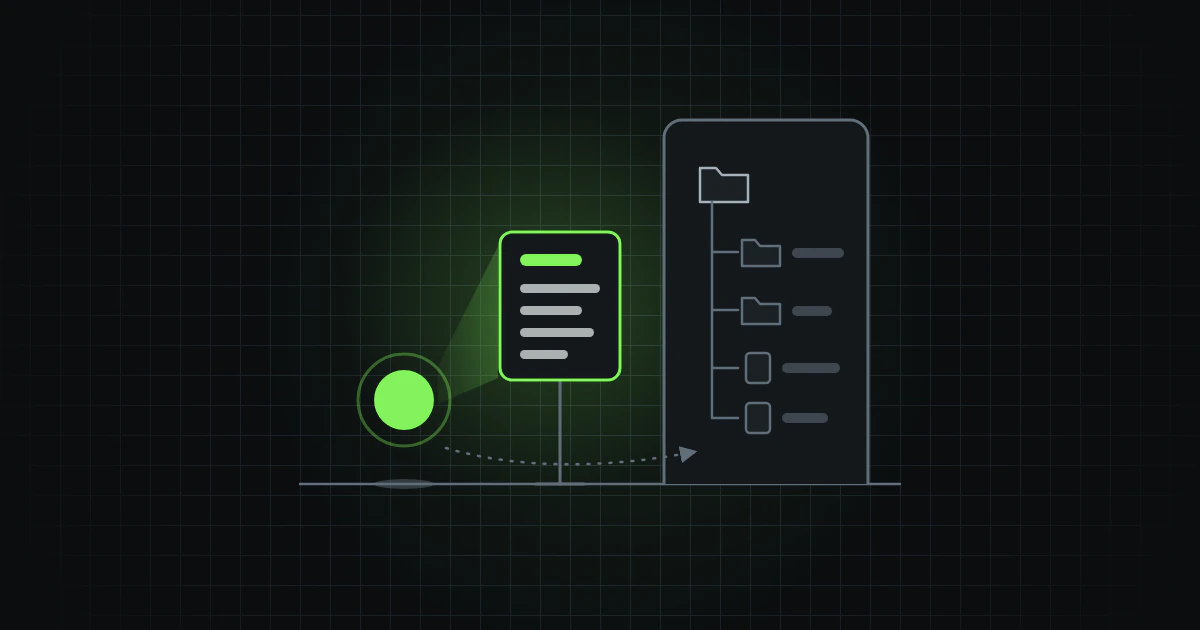
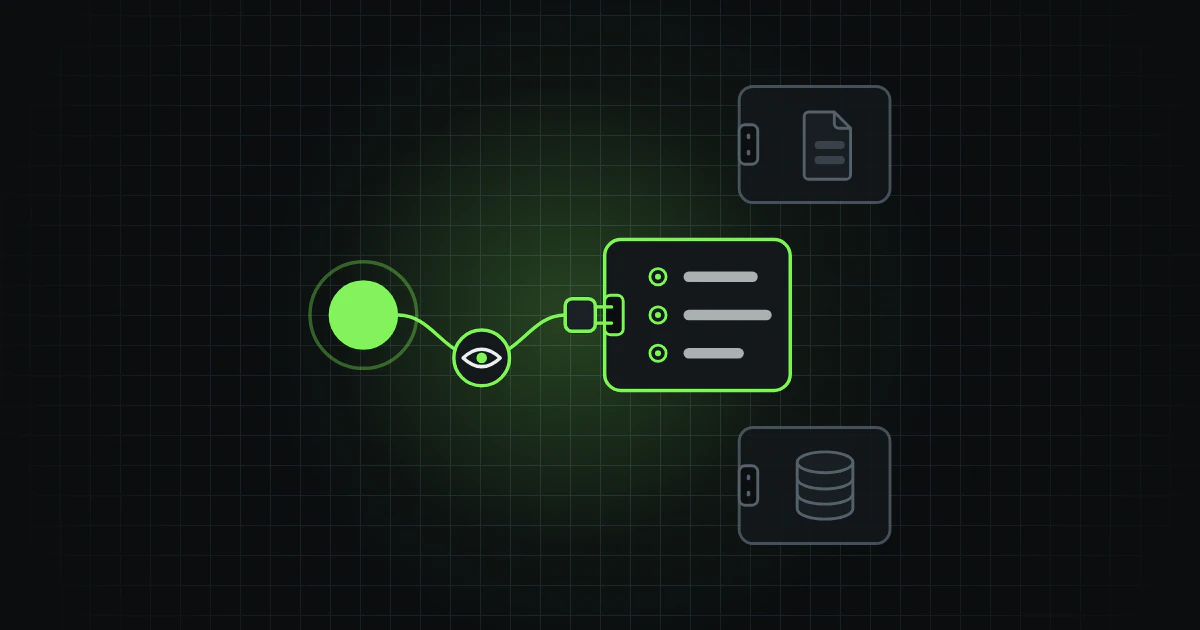
content(blog): part 5 of the series, "MCP, how an AI agent reaches your other systems" / "MCP, så når AI-agenten era andra system", gets its own cover instead of part 2's placeholder: an agent (part 1's green circle with its halo) joined by one cable to the socket of an issue list, lit green, with a

Changed region(s): [[0.2467, 0.1206, 0.7708, 0.8746]]

diff --git a/src/sv/blog/posts/mcp-reaching-your-systems.md b/src/sv/blog/posts/mcp-reaching-your-systems.md
@@ -2,7 +2,7 @@
 title: MCP, så når AI-agenten dina andra system
 description: Femte delen i serien "Från AI-chatt till agentiskt arbete" – vad MCP är, hur du gör en första koppling som bara får läsa och vad du gör när den inte fungerar.
 image: cover.png                 # en PNG på 1200 × 630 i artikelns mediemapp
-imageAlt: En AI-agent, en grön cirkel, står vid ingången till ett projekt och läser en kort lapp på en stolpe innan den går in. Bakom dörröppningen ligger projektets mappar och filer.
+imageAlt: En AI-agent, en grön cirkel, är kopplad med en enda sladd till en ärendelista, instoppad i listans uttag. Ett litet öga på sladden visar att kopplingen bara får läsa. Längre bak till höger sitter en dokumentationssida och en databas, båda grå, var och en med ett tomt uttag och utan koppling.
 date: 2026-10-30
 category: ai-journey             # app-development | ai-journey
 translationKey: mcp-reaching-your-systems

diff --git a/src/en/blog/posts/mcp-reaching-your-systems.md b/src/en/blog/posts/mcp-reaching-your-systems.md
@@ -2,7 +2,7 @@
 title: MCP, how an AI agent reaches your other systems
 description: The fifth part of the series "From AI chat to agentic work" — what MCP is, how to make a first connection that can only read and what to do when it does not work.
 image: cover.png                 # a 1200 × 630 PNG in the article's media directory
-imageAlt: An AI agent, a green circle, stands at the entrance of a project and reads a short note card on a post before it steps in. Behind the doorway lie the project's folders and files.
+imageAlt: An AI agent, a green circle, is joined by one cable to an issue list, plugged into the list's socket. A small eye on the cable shows that the connection can only read. Set back to the right, a documentation page and a database, both grey, each have an empty socket and are not connected.
 date: 2026-10-30
 category: ai-journey             # app-development | ai-journey
 translationKey: mcp-reaching-your-systems
